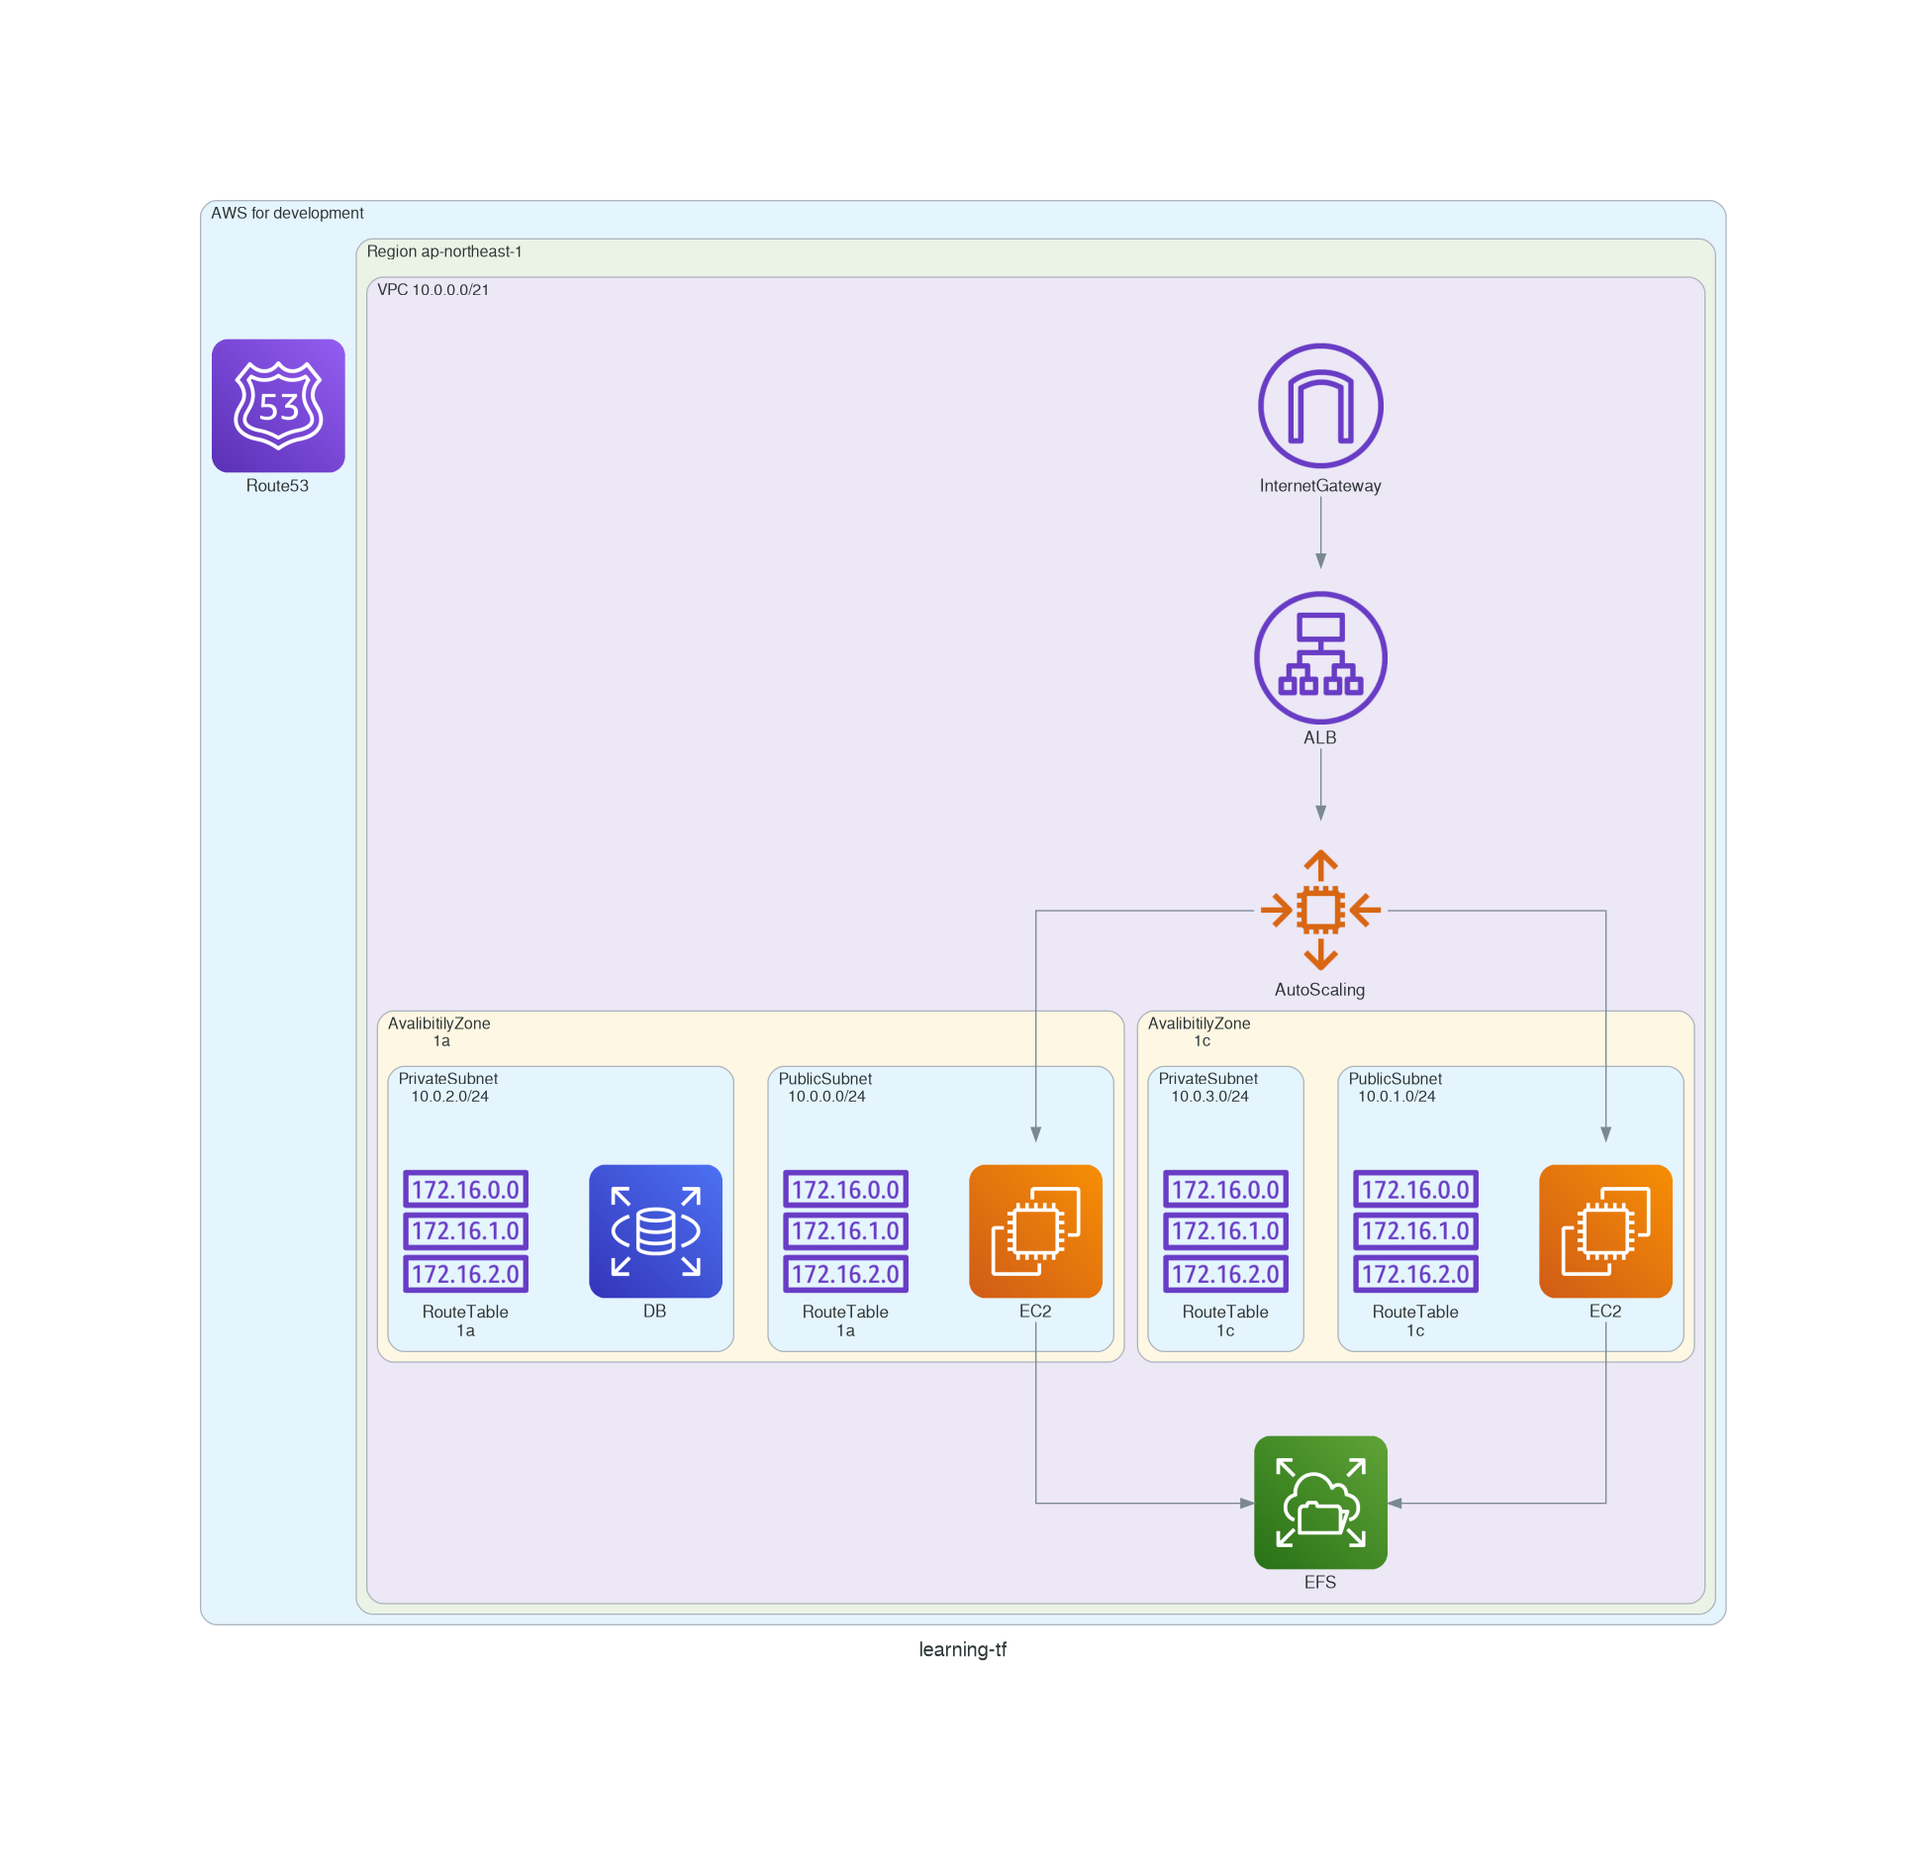
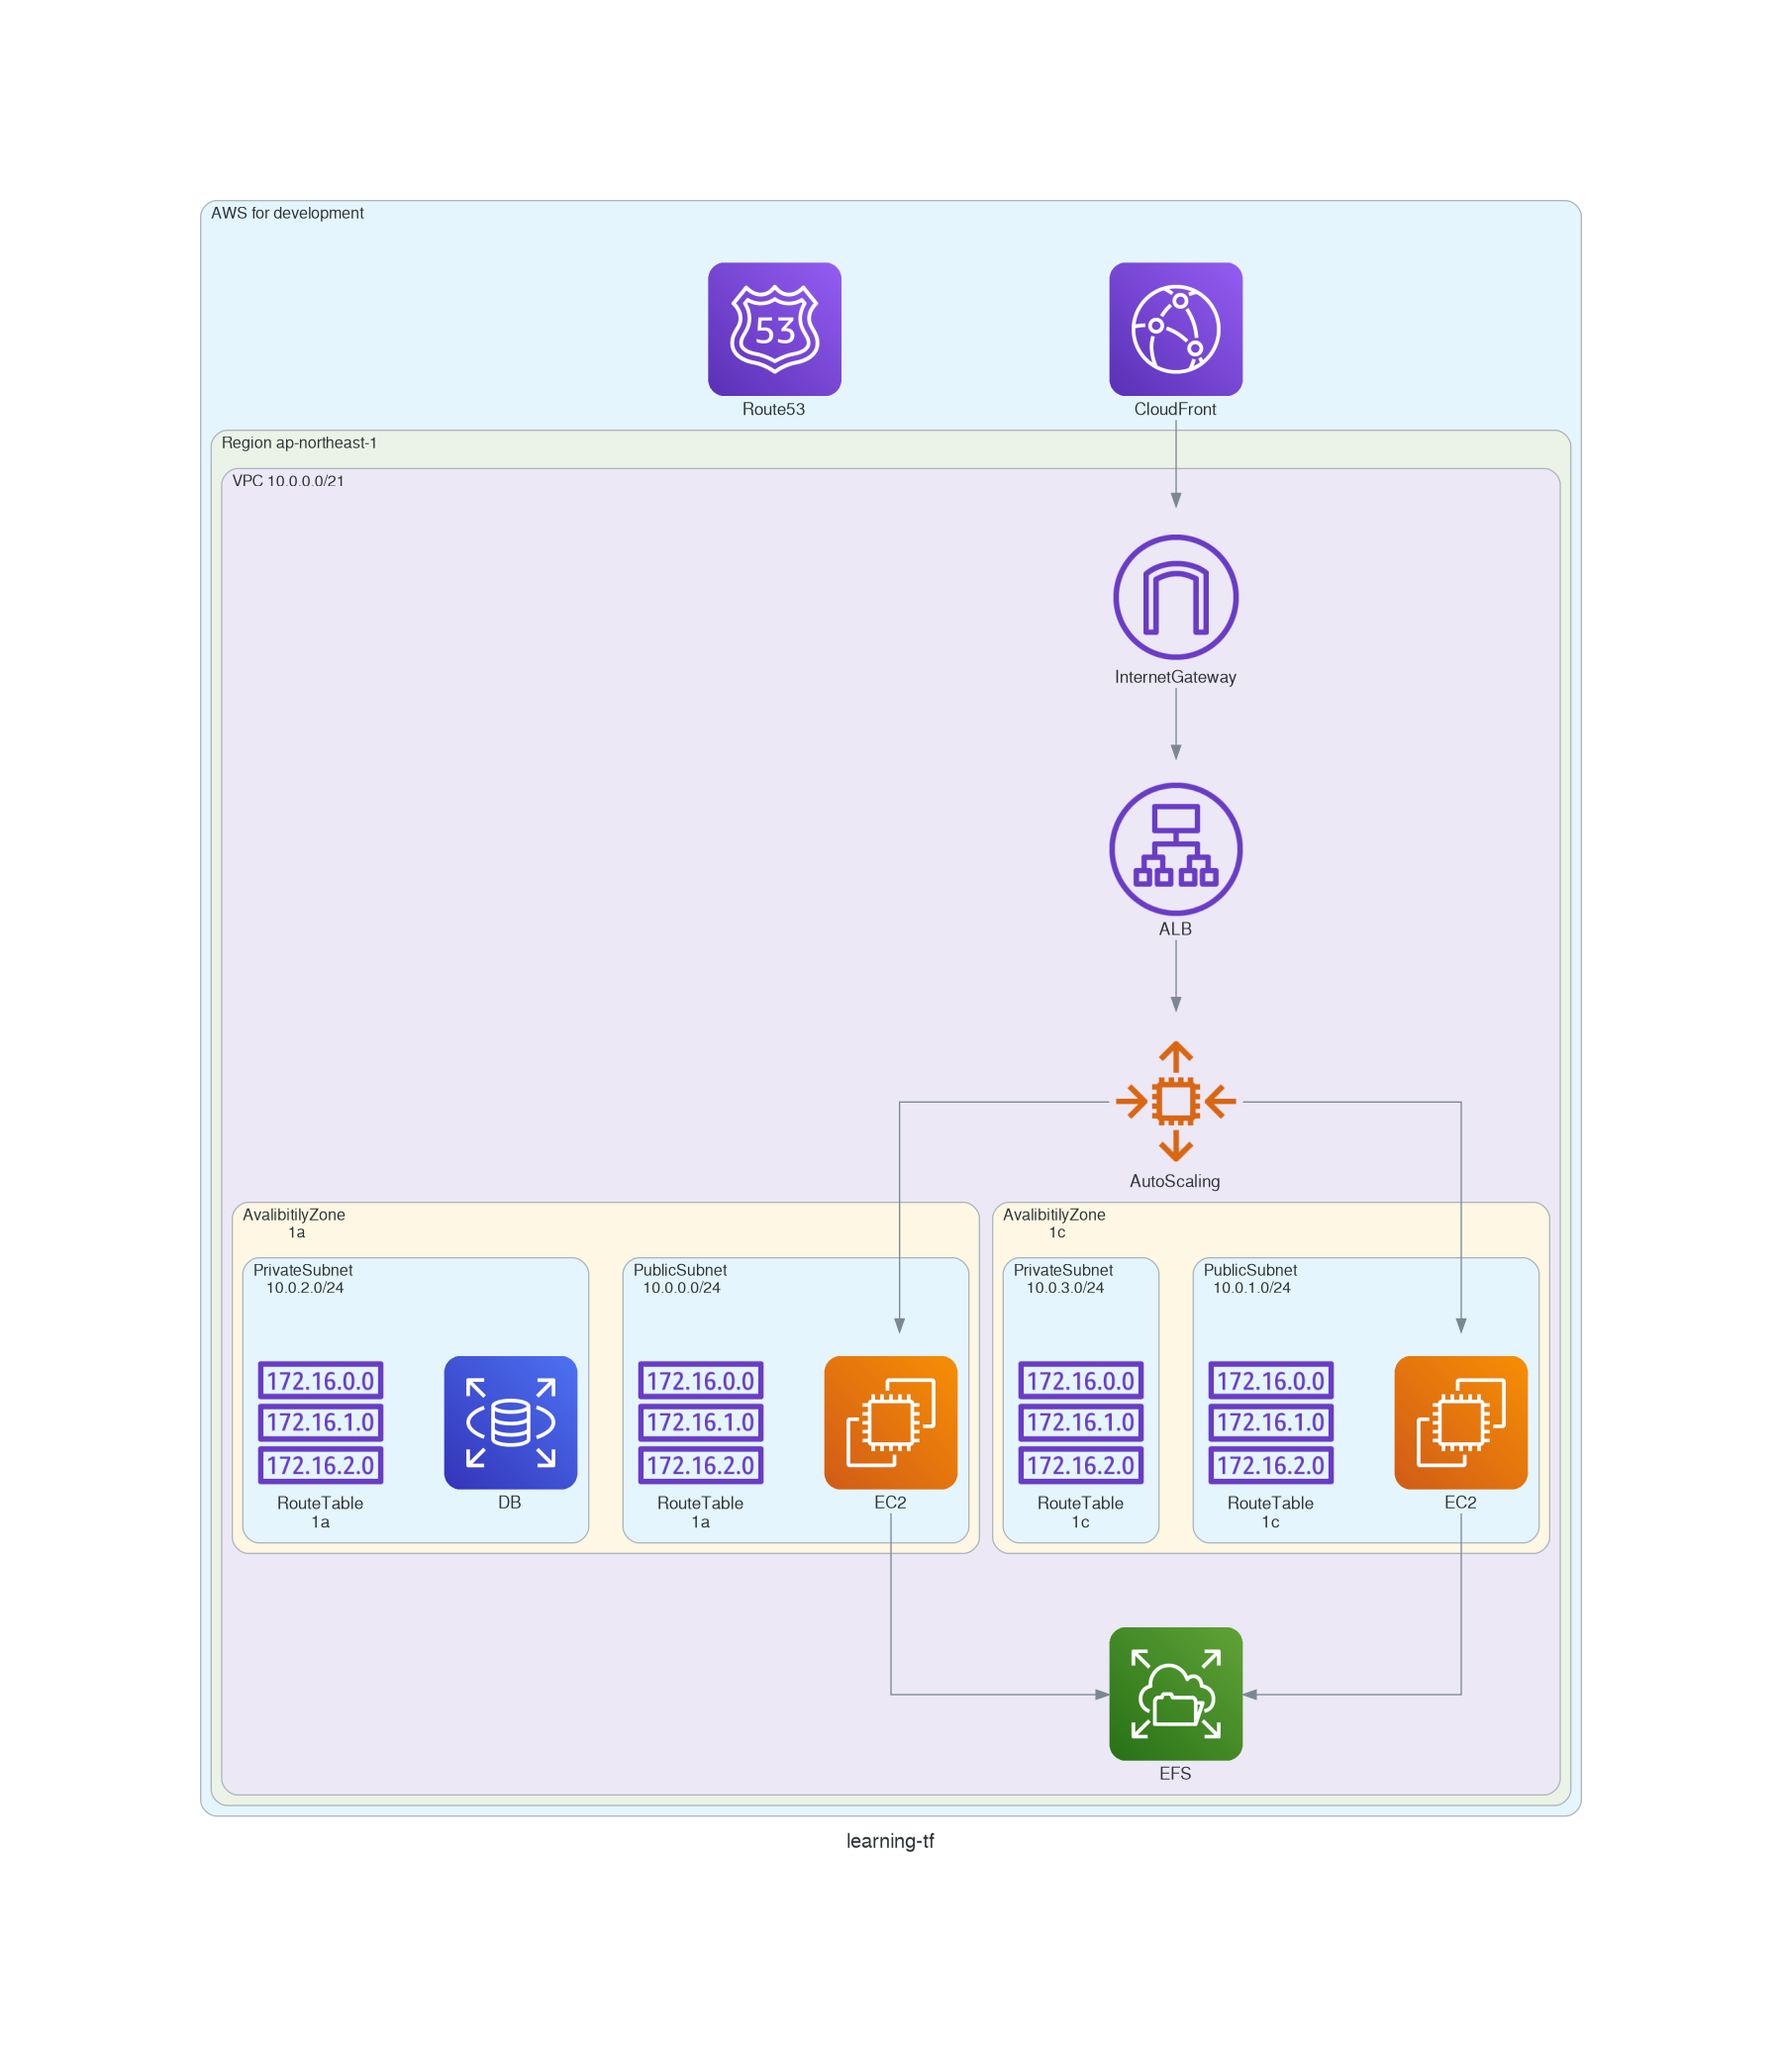
CloudFrontに対応

Changed region(s): [[0.0933, 0.0927, 0.9022, 0.8961]]

diff --git a/diagrams.py b/diagrams.py
@@ -1,9 +1,9 @@
-from diagrams import Cluster, Diagram, Edge
+from diagrams import Cluster, Diagram
+from diagrams.aws.network import CF
 from diagrams.aws.network import InternetGateway
 from diagrams.aws.network import RouteTable
 from diagrams.aws.network import ALB
 from diagrams.aws.network import Route53
-from diagrams.aws.security import ACM
 from diagrams.aws.compute import EC2
 from diagrams.aws.database import RDS
 from diagrams.aws.storage import EFS
@@ -12,6 +12,7 @@ from diagrams.aws.compute import EC2AutoScaling
 with Diagram("learning-tf", show=False, direction="TB"):
     with Cluster("AWS for development"):
         r53 = Route53("Route53")
+        cdn = CF("CloudFront")
         with Cluster("Region ap-northeast-1"):
             with Cluster("VPC 10.0.0.0/21"):
                 igw = InternetGateway("InternetGateway")
@@ -31,7 +32,7 @@ with Diagram("learning-tf", show=False, direction="TB"):
                         RouteTable("RouteTable\n1c")
                     with Cluster("PrivateSubnet \n10.0.3.0/24"):
                         RouteTable("RouteTable\n1c")
-                igw >> alb >> scaling
+                cdn >> igw >> alb >> scaling
                 scaling >> ec2_1a
                 scaling >> ec2_1c
                 ec2_1a >> efs

diff --git a/README.md b/README.md
@@ -19,32 +19,26 @@
 
 ## 作るもの
 ![image](/img/learning-tf.png)
-- EC2はオートスケーリングに対応します
-- WordPressを冗長構成で動作できるようにインストール先をEFSにします
+- CloudFrontを利用します
 
 ### 今回やること
 - `environments/dev/main.tf`
-  - オートスケーリングでEC2を作成するようになるため、`output`からec2のipを削除します
-- `modules/blog/output.tf`
-  - 上記同様に、outputからpublic_ipを削除します
-- `modules/blog/ec2/main.tf`
-  - オートスケーリングにするため`aws_instance`を削除し、起動テンプレート`aws_launch_template`に変更します
-  - `aws_launch_template`では、ユーザーデータを用いてEC2の初期化を行うため、`modules/blog/ec2/tpl/user_data.sh`を実行するようにしている
+  - `cdn_host_name`を追加し、CloudFront(CDN)のドメインを設定します
+  - 関連して、ELB,CloudFrontのFQDNを`output`に出力しています
+  - CloudFrontはグローバルに設置するため、CloudFrontのSSL証明書(ACM)はバージニア北部で登録する必要があるため、`provider`に追加します
+- `modules/blog/main.tf`
+  - ユーザーデータで作成する際に、CloudFront経由のHTTPSアクセスで動作させるために、CloudFrontのドメインの設定を追加します
+  - CloudFront,CloudFrontのSSL証明書,Route53の登録を追加します
+- `modules/blog/cloudfront/main.tf`
+  - CloudFront+ELBの構成dえWordpressを提供するための定義を追加します
+  - 関連して必要な情報を、`variable.tf`,`output.tf`に記載します
+- `modules/blog/ec2/tpl/user_data.sh`
+  - WordPressの初期構築時のドメインをCloudFrontに統一させるための設定を追加します
 - `modules/blog/ec2/variables.tf`
   - `aws_launch_template`のユーザーデータを用いて、`efs`をマウントするため、efsのidを追加します
   - 同様にユーザーデータで、WordPressのDB接続情報を設定するため、rdsの接続先を追加します
-- `modules/blog/ec2/output.tf`
-  - outputからpublic_ipを削除します
-  - EC2のinstance_idではなく、起動テンプレートIDを返し、これをオートスケーリングで利用するようにします
-- `modules/blog/ec2/tpl/user_data.sh`
-  - オートスケーリング時のユーザーデータで実行する内容を記載します
-- `modules/blog/efs/main.tf`
-  - `blog`サービス(WordPress)をefs上に配置するために作成します
-  - `variable.tf`,`output.tf`も記載します
 - `modules/blog/elb/main.tf`
-  - `blog`サービスの`TargetGroup`からEC2インスタンスの定義を削除し、代わりにオートスケーリングの設定を追加します
-  - `TargetGroup`のヘルスチェック先を、`/healthcheck.html`から、`/wp-includes/images/blank.gif`に変更します
-  - `variable.tf`からEC2のインスタンスIDを削除し、代わりに`aws_launch_template`のidに変更します
+  - CloudFront経由のリクエストのみを処理するように、CloudFrontで定めたHTTPヘッダがある場合のみEC2に転送し、それ以外は403を返すように設定します
 
 ## 1. Cloud9を起動する
 - AWSマネジメントコンソールで、cloud9と入力し、cloud9を開く
@@ -60,10 +54,10 @@
 - `terraform apply`
   - `yes`を入力する
   - RDSの構築は5分ほどかかります
+  - CloudFrontも今回作成するため、さらに10分ほど待つ必要があります
+  - ターゲットグループでオートスケーリングのEC2がhealthyになるまで待機します
 - AWSマネジメントコンソールで、AWSリソースが作成されていることを確認する
-- ターゲットグループを確認し、EC2インスタンスがオートスケーリングで2台存在することを確認
--  5分ほど経過後に、`healthy`になっていることを確認(初回はWordPress本体をefsにコピーするなど時間を要します)
-- ブラウザで、https://`fqdn`で出力されたURLへアクセス
+- ブラウザで、https://`cdn_fqdn`へアクセスしWordPressのインストールを行います
 - ブラウザの指示に沿って、WordPressの初期設定を行います
 - サンプルページが表示されること
 - Cloud9のターミナルに戻り
